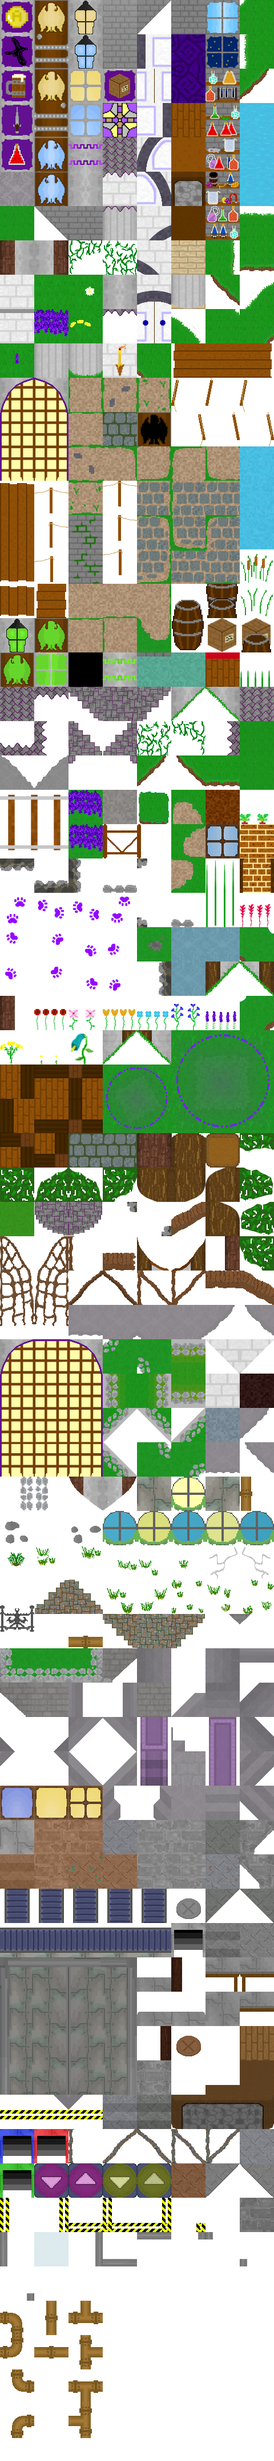
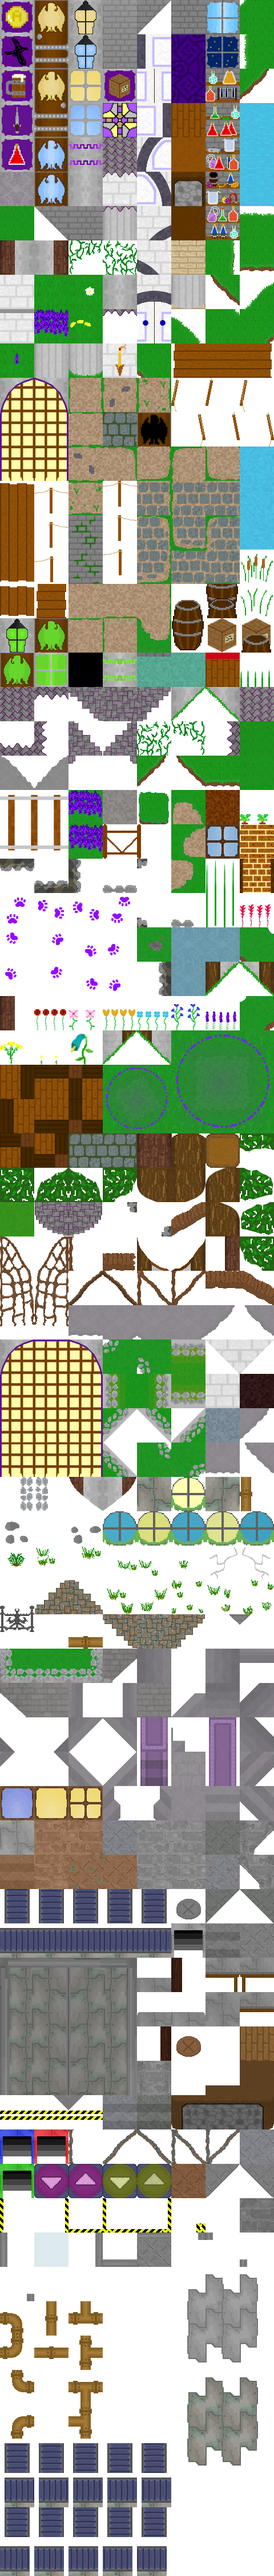
Tinkerer base changes
Conveyor belt edges, new plated walls + other changes that make the base look more polished!

diff --git a/gamedata/areadata.js b/gamedata/areadata.js
@@ -13969,40 +13969,67 @@ chloroville: {
 			tiles: [449, 450, 451, 452, 453],
 			animateTime: 180,
 		},
+
+{
+		tiles: [569, 570, 571, 572, 573],
+		animateTime: 180,
+		},
+
+{
+		tiles: [577, 578, 579, 580, 581],
+		animateTime: 180,
+		},
+
+{
+		tiles: [585, 586, 587, 588, 589],
+		animateTime: 180,
+		},
+
+		{
+				tiles: [593, 594, 595, 596, 597],
+				animateTime: 180,
+				},
+
+
+
 		],
 			layers: [
-				[351,351,425,425,425,437,438,437,438,425,425,425,351,351,438,436,510,431,431,431,431,431,431,431,431,431,431,431,431,431,431,510,436,429,430,425,425,351,351,351,430,429,430,429,430,351,425,425,
-351,425,425,429,430,429,430,429,430,429,425,425,351,429,436,436,510,431,437,438,437,425,425,438,437,438,437,438,437,438,431,510,436,436,438,437,425,425,438,437,438,437,438,437,438,437,425,425,
-436,436,436,436,436,436,436,436,436,436,436,436,436,436,436,436,510,431,429,430,429,430,429,430,429,430,429,430,429,430,431,510,436,436,436,436,436,436,436,436,436,436,436,436,436,436,436,436,
-510,510,510,510,510,510,510,510,510,510,510,510,510,510,510,510,510,431,437,438,437,438,437,437,437,437,437,438,437,438,431,510,510,510,510,510,510,510,510,510,510,510,510,510,510,510,510,510,
-431,431,431,431,431,431,485,430,430,430,430,485,431,431,431,431,431,485,425,425,429,430,457,458,459,460,429,425,425,430,485,431,431,431,431,431,485,430,430,430,430,485,431,431,431,431,431,431,
-429,425,425,425,351,351,485,431,431,431,431,485,425,351,351,351,351,485,425,351,351,438,465,466,467,468,437,425,425,425,485,425,425,425,351,351,485,431,431,431,431,485,429,430,429,430,429,430,
-437,438,437,425,351,351,485,493,493,493,493,485,425,425,425,351,351,485,351,351,351,430,473,474,475,476,429,425,351,351,485,425,425,351,351,438,485,493,493,493,493,485,437,438,351,351,425,438,
-429,430,429,425,351,430,485,493,493,493,493,485,429,425,425,425,429,485,351,351,437,438,481,482,483,484,437,438,437,438,485,430,429,430,429,430,485,493,493,493,493,485,425,351,351,425,425,430,
-351,438,437,438,437,438,485,493,493,493,493,485,437,438,437,438,437,485,456,456,456,456,436,436,436,436,456,456,456,456,485,438,437,438,437,438,485,493,493,493,493,485,351,351,425,425,425,438,
-351,430,429,430,429,430,485,493,493,493,493,485,429,430,429,430,429,485,456,456,456,456,436,436,436,436,456,456,456,456,485,430,429,430,429,430,485,493,493,493,493,485,351,351,351,430,429,430,
-351,438,437,438,437,351,485,493,493,493,493,485,437,438,437,351,351,485,456,456,456,485,433,433,433,433,485,456,456,456,485,438,437,351,425,425,485,493,493,493,493,485,351,425,437,438,437,438,
-429,429,429,430,429,351,485,456,456,456,456,485,429,430,429,351,351,485,425,425,429,436,436,436,436,436,436,429,425,425,485,351,351,351,351,351,485,456,456,456,456,485,425,425,429,430,429,430,
-437,441,437,438,437,351,504,504,504,504,504,504,437,438,437,438,429,485,436,436,435,435,436,436,436,435,435,436,436,436,485,351,425,425,351,351,504,504,504,504,504,504,437,438,437,438,441,438,
-431,428,428,428,428,428,428,428,428,428,428,428,428,428,428,428,428,436,436,436,435,435,435,435,435,435,436,435,435,436,436,0,0,0,0,504,504,504,504,504,504,504,504,504,504,504,428,431,
-431,428,428,428,428,428,428,428,428,428,428,428,428,428,428,428,428,436,436,435,435,436,436,436,436,436,436,436,435,436,436,0,0,0,0,504,428,428,428,428,428,428,428,428,428,504,428,431,
-431,428,428,428,428,428,428,428,428,428,439,428,428,428,428,428,428,436,436,435,435,436,436,436,436,436,436,436,436,436,436,0,0,0,0,504,428,428,428,428,428,428,428,428,428,504,428,431,
-431,428,428,428,428,428,428,428,428,428,428,428,428,428,428,428,428,436,436,436,435,435,436,435,435,436,436,436,435,436,436,0,0,0,0,504,428,428,428,428,428,428,428,428,428,504,428,431,
-431,428,428,439,428,428,428,428,428,428,428,428,428,428,428,428,428,436,436,436,436,436,436,436,435,435,435,435,435,436,436,0,0,0,0,504,428,428,428,428,428,428,428,428,428,504,428,431,
-431,428,428,428,428,428,439,428,439,428,428,428,428,428,428,428,428,436,436,436,436,436,436,436,436,436,436,436,436,436,436,0,0,0,0,504,504,504,504,504,504,504,504,504,504,504,428,431,
-431,492,492,492,492,492,492,492,492,441,492,492,492,492,492,492,441,426,426,426,426,426,426,426,426,426,426,426,426,426,426,441,492,492,492,492,492,492,520,520,520,520,520,520,520,520,520,431,
-431,510,436,436,436,435,436,436,436,510,455,455,455,455,455,455,510,434,434,434,434,434,434,434,434,434,434,434,434,434,434,467,455,455,455,455,455,455,456,456,456,456,456,456,456,456,466,431,
-431,510,436,436,436,436,436,436,436,510,493,493,493,493,493,493,510,456,456,456,456,456,456,456,456,456,456,456,456,456,456,467,493,493,493,493,493,493,456,456,456,456,456,456,456,456,466,431,
-431,510,435,436,436,436,436,436,436,510,431,431,431,431,431,431,510,456,456,456,456,456,456,456,456,456,456,456,456,456,456,467,431,431,431,431,431,431,456,456,456,456,456,456,456,456,466,431,
-431,510,436,436,436,436,436,436,436,510,431,431,431,431,431,431,510,456,456,456,456,456,456,456,456,456,456,456,456,456,456,467,431,431,431,431,431,431,456,456,456,456,456,456,456,456,466,431,
-431,510,510,510,510,510,510,510,510,431,431,471,431,431,471,431,510,456,456,456,456,456,456,456,456,456,456,456,456,456,456,467,431,471,431,431,471,431,525,525,525,525,525,525,525,525,525,431,
-431,485,425,425,430,429,430,429,430,510,431,431,431,431,431,431,510,456,456,456,456,456,456,456,456,456,456,456,456,456,456,467,431,431,431,431,431,431,467,429,425,425,351,429,430,429,485,431,
-493,485,425,425,351,437,438,437,351,510,431,431,431,431,431,431,510,456,456,456,456,456,456,456,456,456,456,456,456,456,456,467,431,431,431,431,431,431,467,437,438,425,425,351,438,437,485,493,
-436,485,430,351,430,429,430,351,351,510,510,510,510,510,510,510,431,456,456,456,456,456,456,456,456,456,456,456,456,456,456,467,467,467,467,467,467,467,467,429,430,351,425,351,430,429,485,436,
-436,436,438,437,438,437,425,351,351,485,425,351,351,429,430,429,467,456,456,456,456,456,456,456,456,456,456,456,456,456,456,467,425,351,351,429,430,429,485,437,438,437,438,437,438,437,436,436,
-436,436,436,436,436,436,436,436,436,485,425,425,351,437,438,437,467,467,467,467,467,467,467,467,467,467,467,467,467,467,467,467,425,425,351,437,438,437,485,436,436,436,436,436,436,436,436,436,
-436,436,436,436,436,436,436,436,436,485,351,351,351,429,430,429,430,429,430,351,425,425,430,429,430,429,430,351,425,351,430,429,430,351,351,429,430,429,485,436,436,436,436,436,436,436,436,436,
-436,436,436,436,436,436,436,436,436,436,438,437,438,437,438,437,438,437,351,425,425,425,425,437,438,437,351,425,425,425,351,437,438,437,438,437,438,437,436,436,436,436,436,436,436,436,436,436
+				[429,429,429,429,429,429,429,429,429,429,429,429,429,429,485,436,510,431,431,431,431,431,431,431,431,431,431,431,431,431,431,510,436,485,430,429,429,429,429,429,429,429,429,429,429,429,429,429,
+429,429,429,429,429,429,429,429,429,429,429,429,429,429,436,436,510,431,437,438,437,438,438,438,437,438,437,438,437,438,431,510,436,436,429,429,429,429,429,429,429,429,429,429,429,429,429,429,
+436,436,436,436,510,431,431,436,436,436,436,431,431,510,436,436,510,431,429,430,429,430,429,430,429,430,429,430,429,430,431,510,436,436,510,431,431,436,436,436,436,431,431,510,436,436,436,436,
+510,510,510,510,510,431,431,436,436,436,436,431,431,510,510,510,510,431,437,438,437,438,437,437,437,437,437,438,437,438,431,510,510,510,510,431,431,436,436,436,436,431,431,510,510,510,510,510,
+431,431,431,431,431,431,485,430,430,430,430,485,431,431,431,431,431,485,438,438,429,430,457,458,459,460,429,438,438,430,485,431,431,431,431,431,485,430,430,430,430,485,431,431,431,431,431,431,
+429,438,438,438,438,438,485,431,431,431,431,485,438,438,438,438,438,485,438,438,438,438,465,466,467,468,437,438,438,438,485,438,438,438,438,438,485,431,431,431,431,485,429,430,429,438,429,430,
+437,438,437,438,438,438,485,493,493,493,493,485,438,438,438,438,438,485,438,438,438,430,473,474,475,476,429,438,438,438,485,438,438,438,438,438,485,493,493,493,493,485,437,438,438,438,438,438,
+429,430,429,438,438,430,485,493,493,493,493,485,429,438,438,438,429,485,438,438,437,438,481,482,483,484,437,438,437,438,485,430,429,430,429,430,485,493,493,493,493,485,438,438,438,438,438,430,
+438,438,437,438,437,438,485,493,493,493,493,485,437,438,437,438,437,485,456,456,456,456,436,436,436,436,456,456,456,456,485,438,437,438,437,438,485,493,493,493,493,485,438,438,438,438,438,438,
+438,430,429,430,429,430,485,493,493,493,493,485,429,430,429,430,429,485,456,456,456,456,436,436,436,436,456,456,456,456,485,430,429,430,429,430,485,493,493,493,493,485,438,438,438,430,429,430,
+438,438,437,438,437,438,485,493,493,493,493,485,437,438,438,438,438,485,456,456,456,485,433,433,433,433,485,456,456,456,485,438,437,438,438,438,485,493,493,493,493,485,438,438,437,438,437,438,
+429,429,429,430,429,438,485,456,456,456,456,485,429,430,438,438,438,485,438,438,429,436,436,436,436,436,436,429,429,429,485,438,438,438,438,438,485,456,456,456,456,485,438,438,429,430,429,430,
+437,441,437,438,437,438,504,504,504,504,504,504,437,438,437,438,429,485,436,436,435,435,436,436,436,435,435,436,436,436,485,438,438,438,438,438,504,504,504,504,504,504,437,438,437,438,441,438,
+431,428,428,428,428,428,428,428,428,428,428,428,428,428,428,428,428,436,436,436,435,435,435,435,435,435,436,435,435,436,436,0,0,0,428,504,504,504,504,504,504,504,504,504,504,504,456,431,
+431,428,428,428,428,428,428,428,428,428,428,428,428,428,428,428,428,436,436,435,435,436,436,436,436,436,436,436,435,436,436,0,428,428,428,504,428,428,428,428,428,428,428,428,428,504,456,431,
+431,428,428,428,428,428,428,428,428,428,439,428,428,428,428,428,428,436,436,435,435,436,436,436,436,436,436,436,436,436,436,0,428,428,428,504,428,428,428,428,428,428,428,428,428,504,456,431,
+431,428,428,428,428,428,428,428,428,428,428,428,428,428,428,428,428,436,436,436,435,435,436,435,435,436,436,436,435,436,436,0,428,428,428,504,428,428,428,428,428,428,428,428,428,504,456,431,
+431,428,428,439,428,428,428,428,428,428,428,428,428,428,428,428,428,436,436,436,436,436,436,436,435,435,435,435,435,436,436,0,428,428,428,504,428,428,428,428,428,428,428,428,428,504,456,431,
+431,428,428,428,428,428,439,428,439,428,428,428,428,428,428,428,428,436,436,436,436,436,436,436,436,436,436,436,436,436,436,0,0,0,0,504,504,504,504,504,504,504,504,504,504,504,456,431,
+431,492,492,492,492,492,492,492,492,441,492,492,492,492,492,492,441,426,426,426,426,426,426,426,426,426,426,426,426,426,426,441,492,492,492,492,492,492,520,520,520,520,520,520,520,520,456,431,
+431,510,436,436,436,435,436,436,436,510,455,455,455,455,455,455,510,434,434,434,434,434,434,434,434,434,434,434,434,434,434,431,455,455,455,455,455,455,431,431,431,431,431,431,431,431,456,431,
+431,510,436,436,436,436,436,436,436,510,493,493,493,493,493,493,510,456,456,456,456,456,456,456,456,456,456,456,456,456,456,431,493,493,493,493,493,493,431,431,431,431,431,431,431,431,456,431,
+431,510,435,436,436,436,436,436,436,510,431,431,431,431,431,431,510,456,456,456,456,456,456,456,456,456,456,456,456,456,456,431,431,431,431,431,431,431,431,431,431,431,431,431,431,431,456,431,
+431,510,436,436,436,436,436,436,436,510,431,431,431,431,431,431,510,456,456,456,456,456,456,456,456,456,456,456,456,456,456,431,431,431,431,431,431,431,431,431,431,431,431,431,431,431,456,431,
+431,510,510,510,510,510,510,510,510,431,431,471,431,431,471,431,510,456,456,456,456,456,456,456,456,456,456,456,456,456,456,431,431,471,431,431,471,431,525,525,525,525,525,525,525,525,525,431,
+431,485,429,429,429,429,430,429,430,510,431,431,431,431,431,431,510,456,456,456,456,456,456,456,456,456,456,456,456,456,456,431,431,431,431,431,431,431,456,429,429,429,429,429,430,429,485,431,
+493,485,429,429,429,437,429,429,429,510,431,431,431,431,431,431,510,456,456,456,456,456,456,456,456,456,456,456,456,456,456,431,431,431,431,431,431,431,456,429,429,429,429,429,438,437,485,493,
+436,485,429,429,429,429,429,429,429,510,510,510,510,510,510,510,431,456,456,456,456,456,456,456,456,456,456,456,456,456,456,431,456,456,456,456,456,456,456,429,429,429,429,429,430,429,485,436,
+436,436,438,437,438,437,429,429,429,485,429,429,429,429,430,429,431,456,456,456,456,456,456,456,456,456,456,456,456,456,456,431,429,429,429,429,430,429,485,437,438,437,438,437,438,437,436,436,
+436,436,436,436,436,436,436,436,436,485,429,429,429,437,438,437,431,431,431,431,431,431,431,431,431,431,431,431,431,431,431,431,429,429,429,437,438,437,485,436,436,436,436,436,436,436,436,436,
+436,436,436,436,436,436,436,436,436,485,429,429,429,429,430,429,430,429,429,429,429,429,429,429,429,429,429,429,429,429,429,429,429,429,429,429,430,429,485,436,436,436,436,436,436,436,436,436,
+436,436,436,436,436,436,436,436,436,436,438,437,438,437,438,437,438,429,429,429,429,429,429,429,429,429,429,429,429,429,429,437,438,437,438,437,438,437,436,436,436,436,436,436,436,436,436,436
+
+
+
+
 
 
 
@@ -14012,75 +14039,83 @@ chloroville: {
 
 ],
 
-	[0,0,0,0,0,0,0,0,0,0,0,0,0,0,0,0,442,446,0,0,0,0,0,0,0,0,0,0,0,0,446,445,0,0,0,0,0,0,0,0,0,0,0,0,0,0,0,0,
-0,0,0,0,0,0,0,0,0,0,0,0,0,0,432,0,442,0,447,0,0,0,0,0,352,0,0,0,352,448,0,445,0,440,0,0,0,0,0,0,0,0,0,0,0,0,0,0,
-0,0,0,0,0,0,0,0,0,0,0,0,0,0,0,0,442,0,0,0,379,379,379,379,352,0,0,379,352,0,0,445,0,0,0,0,0,0,0,0,0,0,0,0,0,0,0,0,
-453,453,453,453,453,453,453,453,453,453,453,453,453,453,453,453,449,0,0,379,352,0,0,0,0,0,0,352,379,379,0,453,453,453,453,453,453,453,453,453,453,453,453,453,453,453,453,453,
-0,0,0,0,0,0,447,0,0,0,0,448,0,0,0,0,0,447,0,352,352,0,0,0,0,0,0,352,352,0,448,0,0,0,0,0,447,0,0,0,0,448,0,0,0,0,0,0,
-379,379,379,379,352,0,0,409,0,0,410,0,0,0,0,0,379,379,0,352,352,0,0,0,0,0,0,352,352,0,0,0,0,0,0,0,0,409,0,0,410,0,379,379,352,0,379,379,
-0,0,0,352,0,0,352,0,0,0,0,0,379,379,379,379,352,0,0,352,352,0,0,0,0,0,0,352,352,0,0,0,379,379,379,379,352,0,0,0,0,0,0,0,0,0,352,0,
-379,379,379,352,0,0,352,0,0,0,0,0,0,0,0,0,352,0,0,352,352,0,0,0,0,0,0,352,352,0,0,0,352,0,0,0,352,0,0,0,0,0,379,379,379,379,352,0,
-0,379,379,379,379,379,352,0,0,0,0,0,379,379,379,379,352,0,0,0,0,0,0,0,0,0,0,0,0,0,379,379,352,0,0,0,352,0,0,0,0,0,0,0,0,0,0,0,
-0,352,0,352,0,0,0,0,0,0,0,0,352,0,0,0,352,0,0,446,0,0,0,0,0,0,0,0,478,0,0,0,352,0,0,379,0,0,0,0,0,0,0,0,0,0,0,0,
-0,352,0,352,0,0,0,0,0,0,0,0,352,0,0,379,352,0,0,0,0,511,0,0,0,0,512,0,0,0,0,0,352,0,0,352,0,0,0,0,0,0,0,379,379,379,379,379,
-0,352,0,352,0,0,489,489,489,489,489,489,352,0,0,352,0,0,0,0,0,432,0,0,0,0,440,0,0,0,0,0,352,0,0,352,489,489,489,489,489,489,0,352,0,0,0,0,
-0,454,0,352,0,0,432,0,0,0,0,440,352,0,0,352,0,0,0,0,0,0,0,0,367,367,0,0,0,0,0,0,352,0,0,352,432,0,0,0,0,440,0,352,0,0,454,0,
-0,441,0,0,0,446,0,0,0,0,0,0,0,478,0,0,0,432,0,478,367,0,367,0,0,367,0,367,446,0,440,0,0,0,0,0,0,0,0,0,0,0,0,0,0,0,441,0,
-0,441,0,367,0,0,0,0,367,0,0,0,0,0,0,0,0,513,367,0,0,0,0,0,0,0,367,0,367,0,514,0,0,0,0,0,0,0,0,0,0,0,0,0,0,0,441,0,
+	[566,567,568,0,0,566,567,568,0,0,542,543,544,0,0,0,442,446,0,0,0,0,0,0,0,0,0,0,0,0,446,445,0,0,0,0,542,543,544,0,566,567,568,0,0,542,543,544,
+574,575,576,0,441,574,575,576,0,0,550,551,552,441,432,0,442,0,447,538,0,558,559,560,0,0,534,535,536,448,0,445,0,440,441,574,575,576,0,0,550,551,552,441,0,550,551,552,
+0,0,0,0,441,0,0,513,0,0,514,0,0,441,0,0,442,0,0,0,0,566,567,568,0,0,542,543,544,0,0,445,0,0,441,0,0,513,0,0,514,0,0,441,0,0,0,0,
+449,449,449,449,593,0,0,513,0,0,514,0,0,577,449,449,593,0,0,0,0,574,575,576,0,0,550,551,552,0,0,577,449,449,593,0,0,513,0,0,514,0,0,577,449,449,449,449,
+0,0,0,0,0,0,447,0,0,0,0,448,0,0,0,0,0,447,0,0,0,0,0,0,0,0,0,558,559,560,448,0,0,0,0,0,447,0,0,0,0,448,0,0,0,0,0,0,
+534,535,536,0,0,0,0,409,0,0,410,0,0,0,0,0,0,0,534,535,536,0,0,0,0,0,0,566,567,568,0,0,0,0,0,0,0,409,0,0,410,0,0,0,0,0,0,0,
+542,543,544,558,559,560,0,0,0,0,0,0,0,0,558,559,560,0,542,543,544,0,0,0,0,0,0,574,575,576,0,0,0,558,559,560,0,0,0,0,0,0,0,534,535,536,0,0,
+550,551,552,566,567,568,0,0,0,0,0,0,0,0,566,567,568,0,550,551,552,0,0,0,0,0,0,0,0,0,0,0,0,566,567,568,0,0,0,0,0,0,0,542,543,544,0,0,
+0,0,0,574,575,576,0,0,0,0,0,0,0,0,574,575,576,0,0,0,0,514,0,0,0,0,513,0,0,0,0,0,0,574,575,576,0,0,0,0,0,0,0,550,551,552,0,0,
+558,559,560,0,0,0,0,0,0,0,0,0,0,0,0,0,0,0,0,478,0,514,0,0,0,0,513,0,478,0,0,0,0,0,0,0,0,0,0,0,0,0,0,0,0,558,559,560,
+566,567,568,534,535,536,0,0,0,0,0,0,558,559,560,0,0,0,0,0,0,511,0,0,0,0,512,0,0,0,0,534,535,536,0,0,0,0,0,0,0,0,0,0,0,566,567,568,
+574,575,576,542,543,544,489,489,489,489,489,489,566,567,568,0,0,0,558,559,560,432,0,0,0,0,440,550,551,552,0,542,543,544,0,0,489,489,489,489,489,489,0,0,0,574,575,576,
+0,454,0,550,551,552,432,0,0,0,0,440,574,575,576,0,0,0,0,0,0,0,0,0,0,367,0,0,0,0,0,550,551,552,0,0,432,0,0,0,0,440,538,0,0,538,454,0,
+0,441,0,0,0,0,0,0,0,0,0,0,0,0,0,0,0,432,0,446,0,0,0,0,0,0,0,367,478,0,440,0,0,0,0,0,0,0,0,0,0,0,0,0,0,0,441,0,
+0,441,0,446,0,0,0,0,367,0,0,0,0,0,478,0,0,513,367,0,0,0,0,0,0,0,367,0,367,0,514,0,0,446,0,0,0,0,0,0,0,0,0,0,478,0,441,0,
 0,441,0,0,0,0,0,0,0,0,0,0,0,0,0,0,0,513,0,0,0,0,0,0,0,0,0,0,0,0,514,0,0,0,0,0,0,0,0,0,0,0,0,0,0,0,441,0,
 0,441,0,0,0,0,0,0,0,0,0,0,0,0,0,0,0,513,0,0,367,0,0,0,0,0,0,367,367,0,514,0,0,0,0,0,0,0,0,0,0,0,0,0,0,0,441,0,
-0,441,0,0,0,0,0,0,0,0,0,0,0,368,367,0,0,513,0,446,0,0,0,367,0,0,0,0,478,0,514,0,0,0,0,0,0,0,0,0,0,0,0,0,0,0,441,0,
-0,441,0,478,0,0,0,0,0,0,0,0,0,0,0,446,0,516,515,515,515,515,515,515,515,515,515,515,515,515,517,0,0,0,0,0,0,0,0,0,0,0,0,0,0,527,441,0,
-0,441,0,368,0,0,0,0,0,497,0,0,0,0,0,0,498,0,0,0,352,0,352,0,379,379,379,352,0,352,0,505,0,0,0,0,0,0,0,0,0,0,0,0,0,0,528,0,
-0,441,513,0,469,461,470,0,514,441,0,0,0,0,0,0,442,379,379,379,352,0,352,0,352,0,0,0,0,352,0,441,0,0,0,0,0,0,537,0,0,0,561,546,537,538,521,0,
+0,441,0,478,0,0,0,0,0,0,0,0,0,368,446,0,0,513,0,478,0,0,0,0,0,0,0,0,446,0,514,0,0,478,0,0,0,0,0,0,0,0,0,0,446,0,441,0,
+0,441,0,0,0,0,0,0,0,0,0,0,0,0,0,0,0,516,515,515,515,515,515,515,515,515,515,515,515,515,517,0,0,0,0,0,0,0,0,0,0,0,0,0,0,527,441,0,
+0,441,0,368,0,0,0,0,0,497,0,0,0,0,0,0,498,538,0,0,0,561,546,546,546,546,537,0,0,561,546,505,0,0,0,0,0,0,0,0,0,0,0,0,0,0,528,0,
+0,441,513,0,469,461,470,0,514,441,0,0,0,0,0,0,442,553,555,546,546,539,537,0,0,0,553,555,537,538,0,441,0,0,0,0,0,0,537,0,0,0,561,546,537,538,521,0,
 0,441,513,0,471,471,471,0,514,441,0,0,0,0,0,0,442,0,0,0,0,0,0,0,0,0,0,0,0,0,0,441,0,0,0,0,0,0,553,555,546,546,539,537,547,545,521,0,
-0,441,513,0,464,472,463,0,514,441,513,0,367,0,0,514,442,0,478,0,0,0,0,0,0,0,0,0,0,446,0,441,513,0,0,0,0,523,0,538,561,555,546,563,538,0,521,0,
+0,441,513,0,464,472,463,0,514,441,513,0,367,0,0,514,442,0,478,0,0,0,0,0,0,0,0,0,0,478,0,441,513,0,0,0,0,523,0,538,561,555,546,563,538,0,521,0,
 0,441,516,515,515,515,515,515,517,441,513,469,0,0,470,514,442,0,0,0,0,0,0,0,0,0,0,0,0,0,0,441,513,469,0,0,470,523,0,553,539,545,0,553,545,0,521,0,
-0,441,449,449,449,449,449,449,449,506,513,469,461,461,470,514,442,0,0,0,0,0,0,0,0,0,0,0,0,0,0,441,513,469,461,461,470,514,449,449,449,449,449,449,449,449,449,0,
-0,379,352,379,379,379,379,352,379,441,513,464,472,472,463,514,442,0,0,0,0,0,0,0,0,0,0,0,0,0,0,441,513,464,472,472,463,514,441,352,0,0,379,352,0,379,352,0,
-0,379,352,352,0,0,0,352,352,441,516,515,515,515,515,517,441,0,0,0,0,0,0,0,0,0,0,0,0,0,0,441,516,515,515,515,515,517,441,352,379,379,352,352,0,352,0,0,
-0,0,352,352,0,0,0,352,352,441,449,449,449,449,449,449,509,0,0,0,0,0,0,0,0,0,0,0,0,0,0,449,449,449,449,449,449,449,449,352,352,0,0,352,0,352,0,0,
-0,440,352,352,0,0,0,352,352,0,0,0,0,379,379,379,441,0,0,0,0,0,0,0,0,0,0,0,0,0,0,441,379,379,379,352,379,352,0,352,352,367,0,352,0,352,432,0,
-0,367,0,0,0,0,0,367,0,0,379,379,379,352,352,0,449,449,449,449,449,449,449,449,449,449,449,449,449,449,449,449,0,0,0,352,352,352,0,0,0,0,0,0,0,0,0,0,
-0,0,0,0,0,0,0,0,0,0,352,0,0,352,352,0,0,0,0,0,0,0,0,0,0,0,0,0,0,0,0,0,0,0,0,352,352,352,0,0,0,0,0,0,0,0,0,0,
-0,0,0,0,0,0,0,0,0,440,352,0,0,352,352,0,0,0,0,0,0,0,0,0,0,0,0,0,0,0,0,0,0,0,0,352,352,352,432,0,0,0,0,0,0,0,367,0
+0,577,449,449,449,449,449,449,449,506,513,469,461,461,470,514,442,0,0,0,0,0,0,0,0,0,0,0,0,0,0,441,513,469,461,461,470,514,577,449,449,449,449,449,449,449,593,0,
+0,0,0,534,535,536,0,0,0,441,513,464,472,472,463,514,442,0,0,0,0,0,0,0,0,0,0,0,0,0,0,441,513,464,472,472,463,514,441,0,0,0,0,534,535,536,0,0,
+0,0,0,542,543,544,558,559,560,441,516,515,515,515,515,517,441,0,0,0,0,0,0,0,0,0,0,0,0,0,0,441,516,515,515,515,515,517,441,534,535,536,0,542,543,544,0,0,
+0,0,0,550,551,552,566,567,568,577,449,449,449,449,449,449,509,0,478,0,0,0,0,0,0,0,0,0,0,478,0,577,449,449,449,449,449,449,593,542,543,544,0,550,551,552,0,0,
+0,440,0,0,0,0,574,575,576,0,558,559,560,0,0,0,441,0,0,0,0,0,0,0,0,0,0,0,0,0,0,441,534,535,536,0,0,0,0,550,551,552,0,0,0,0,432,0,
+0,367,0,0,0,0,0,367,0,0,566,567,568,0,0,0,577,449,449,449,449,449,449,449,449,449,449,449,449,449,449,593,542,543,544,534,535,536,0,0,0,0,0,0,0,0,0,0,
+0,0,0,0,0,0,0,0,0,0,574,575,576,558,559,560,0,0,0,558,559,560,0,558,559,558,559,560,0,0,0,0,550,551,552,542,543,544,0,0,0,0,0,0,0,0,0,0,
+0,0,0,0,0,0,0,0,0,440,0,0,0,566,567,568,0,0,0,566,567,568,0,566,567,567,567,568,0,0,0,0,0,0,0,550,551,552,432,0,0,0,0,0,0,0,367,0
+
+
+
+
 
 
 
 ],
 
 [0,0,0,0,0,0,0,0,0,0,0,0,0,0,0,0,0,0,0,0,0,0,0,0,0,0,0,0,0,0,0,0,0,0,0,0,0,0,0,0,0,0,0,0,0,0,0,0,
-0,0,0,0,0,0,0,0,0,0,0,0,0,0,0,0,0,0,0,0,0,0,0,0,0,0,0,0,0,0,0,0,0,0,0,0,0,0,0,0,0,0,0,0,0,0,0,0,
-0,0,0,0,0,0,0,0,0,0,0,0,0,0,0,0,0,0,0,0,0,0,0,0,0,0,0,0,0,0,0,0,0,0,0,0,0,0,0,0,0,0,0,0,0,0,0,0,
-0,0,0,0,0,0,0,0,0,0,0,0,0,0,0,0,441,0,0,0,0,0,0,0,0,0,0,0,0,0,0,445,0,0,0,0,0,0,0,0,0,0,0,0,0,0,0,0,
-0,0,0,0,0,0,0,0,0,0,0,0,0,0,0,0,0,0,0,0,0,0,0,0,0,0,0,0,0,0,0,0,0,0,0,0,0,0,0,0,0,0,0,0,0,0,0,0,
-0,0,0,0,0,0,0,0,0,0,0,0,0,0,0,0,0,0,0,0,0,0,0,0,0,0,0,0,0,0,0,0,0,0,0,0,0,0,0,0,0,0,0,0,0,0,0,0,
-0,0,0,0,0,0,0,0,0,0,0,0,0,0,0,0,0,0,0,0,0,0,0,0,0,0,0,0,0,0,0,0,0,0,0,0,0,0,0,0,0,0,0,0,0,0,0,0,
-0,0,0,0,0,0,0,0,0,0,0,0,0,0,0,0,0,0,0,0,0,0,0,0,0,0,0,0,0,0,0,0,0,0,0,0,0,0,0,0,0,0,0,0,0,0,0,0,
-0,0,0,0,0,0,0,0,0,0,0,0,0,0,0,0,0,0,0,0,0,0,0,0,0,0,0,0,0,0,0,0,0,0,0,0,0,0,0,0,0,0,0,0,0,0,0,0,
-0,0,0,0,0,0,0,0,0,0,0,0,0,0,0,0,0,0,0,0,0,0,0,0,0,0,0,0,0,0,0,0,0,0,0,0,0,0,0,0,0,0,0,0,0,0,0,0,
-0,0,0,0,0,0,0,0,0,0,0,0,0,0,0,0,0,0,0,0,0,0,0,0,0,0,0,0,0,0,0,0,0,0,0,0,0,0,0,0,0,0,0,0,0,0,0,0,
-0,0,0,0,0,0,0,0,0,0,0,0,0,0,0,0,0,0,0,0,0,0,0,0,0,0,0,0,0,0,0,0,0,0,0,0,0,0,0,0,0,0,0,0,0,0,0,0,
-0,0,0,0,0,0,0,0,0,0,0,0,0,0,0,0,0,0,0,0,0,0,0,0,0,0,0,0,0,0,0,0,0,0,0,0,0,0,0,0,0,0,0,0,0,0,0,0,
-0,0,0,0,0,0,0,0,0,0,0,0,0,0,0,0,0,0,0,0,0,0,0,0,0,0,0,0,0,0,0,428,428,428,428,0,0,0,0,0,0,0,0,0,0,0,0,0,
-0,0,0,0,0,0,0,0,0,0,0,0,0,0,0,0,0,0,0,0,0,0,0,0,0,0,0,0,0,0,0,428,428,428,428,0,0,0,0,0,0,0,0,0,0,0,0,0,
-0,0,0,0,0,0,0,0,0,0,0,0,0,0,0,0,0,0,0,0,0,0,0,0,0,0,0,0,0,0,0,428,428,428,428,0,0,0,0,0,0,0,0,0,0,0,0,0,
-0,0,0,0,0,0,0,0,0,0,0,0,0,0,0,0,0,0,0,0,0,0,0,0,0,0,0,0,0,0,0,428,428,428,428,0,0,0,0,0,0,0,0,0,0,0,0,0,
-0,0,0,0,0,0,0,0,0,0,0,0,0,0,0,0,0,0,0,0,0,0,0,0,0,0,0,0,0,0,0,428,428,428,428,0,0,0,0,0,0,0,0,0,0,0,0,0,
+0,0,0,0,454,0,0,0,0,0,0,0,0,454,0,0,0,0,0,0,0,0,0,0,0,0,0,0,0,0,0,0,0,0,454,0,0,0,0,0,0,0,0,454,0,0,0,0,
+0,0,0,0,0,0,0,0,0,0,0,0,0,0,0,0,0,0,561,539,546,546,546,546,546,546,546,555,537,0,0,0,0,0,0,0,0,0,0,0,0,0,0,0,0,0,0,0,
+0,0,0,0,587,0,0,0,0,0,0,0,0,585,0,0,585,0,538,0,0,0,0,0,0,0,0,538,538,0,0,585,0,0,587,0,0,0,0,0,0,0,0,585,0,0,0,0,
+0,0,0,0,0,0,0,0,0,0,0,0,0,0,0,0,0,0,547,537,0,0,0,0,0,0,0,538,538,0,0,0,0,0,0,0,0,0,0,0,0,0,0,0,0,0,0,0,
+0,538,0,0,547,537,0,0,0,0,0,0,547,546,546,546,546,0,538,538,0,0,0,0,0,0,0,538,538,0,0,538,538,0,0,0,0,0,0,0,0,0,547,537,0,0,0,0,
+0,538,0,0,538,538,0,0,0,0,0,0,538,0,0,0,0,0,538,547,537,0,0,0,0,0,0,538,538,0,0,538,538,0,0,0,0,0,0,0,0,0,538,547,546,546,546,546,
+0,547,546,546,539,545,0,0,0,0,0,0,538,0,0,0,0,0,538,538,538,0,0,0,0,0,0,553,563,0,0,538,538,0,0,0,0,0,0,0,0,0,538,553,555,546,546,546,
+0,553,546,537,0,0,0,0,0,0,0,0,547,537,0,0,0,0,0,0,0,0,0,0,0,0,0,0,0,0,0,553,539,546,537,0,0,0,0,0,0,0,538,0,538,0,0,0,
+0,0,0,538,0,0,0,0,0,0,0,0,538,538,0,0,0,0,0,0,0,0,0,0,0,0,0,0,0,0,0,0,0,0,538,0,0,0,0,0,0,0,538,0,538,0,0,0,
+0,0,0,538,0,0,0,0,0,0,0,0,538,553,546,546,537,0,0,0,0,0,0,0,0,0,0,0,0,0,0,0,0,561,563,0,0,0,0,0,0,0,538,0,538,0,0,0,
+0,0,0,538,0,0,0,0,0,0,0,0,553,537,0,0,538,0,0,0,0,0,0,0,0,0,0,0,0,0,0,0,0,538,538,0,0,0,0,0,0,0,538,0,553,537,0,0,
+0,0,0,538,0,0,0,0,0,0,0,0,0,538,0,0,538,0,0,0,0,0,0,0,0,0,0,0,0,0,0,0,561,563,538,0,0,0,0,0,0,0,0,0,0,0,0,0,
+0,0,0,0,0,0,0,0,0,0,0,0,0,0,0,0,0,0,0,0,0,0,0,0,0,0,0,0,0,0,0,428,428,428,0,0,0,0,0,0,0,0,0,0,0,0,0,0,
+0,0,0,0,0,0,0,0,0,0,0,0,0,0,0,0,0,0,0,0,0,0,0,0,0,0,0,0,0,0,0,428,0,0,0,0,0,0,0,0,0,0,0,0,0,0,0,0,
+0,0,0,0,0,0,0,0,0,0,0,0,0,0,0,0,0,0,0,0,0,0,0,0,0,0,0,0,0,0,0,428,0,0,0,0,0,0,0,0,0,0,0,0,0,0,0,0,
+0,0,0,0,0,0,0,0,0,0,0,0,0,0,0,0,0,0,0,0,0,0,0,0,0,0,0,0,0,0,0,428,0,0,0,0,0,0,0,0,0,0,0,0,0,0,0,0,
+0,0,0,0,0,0,0,0,0,0,0,0,0,0,0,0,0,0,0,0,0,0,0,0,0,0,0,0,0,0,0,428,0,0,0,0,0,0,0,0,0,0,0,0,0,0,0,0,
 0,0,0,0,0,0,0,0,0,0,0,0,0,0,0,0,0,0,0,0,0,0,0,0,0,0,0,0,0,0,0,428,428,428,428,0,0,0,0,0,0,0,0,0,0,0,0,0,
 0,0,0,0,0,0,0,0,0,0,521,0,0,0,0,523,0,0,0,0,0,0,0,0,0,0,0,0,0,0,0,0,521,0,0,0,0,523,524,524,524,524,524,524,524,524,441,0,
 0,0,0,0,0,0,0,0,0,0,521,0,0,0,0,523,0,0,0,0,0,0,0,0,0,0,0,0,0,0,0,0,521,0,0,0,0,523,522,522,522,522,522,522,522,522,441,0,
 0,0,0,0,0,0,0,0,0,0,521,0,0,0,0,523,0,0,0,0,0,0,0,0,0,0,0,0,0,0,0,0,521,0,0,0,0,523,522,522,522,522,522,522,522,522,441,0,
 0,0,0,0,0,0,0,0,0,0,0,0,0,0,0,0,0,0,0,0,0,0,0,0,0,0,0,0,0,0,0,0,0,0,0,0,0,0,522,522,522,522,522,522,522,522,441,0,
 0,0,0,0,0,0,0,0,0,0,0,0,0,0,0,0,0,0,0,0,0,0,0,0,0,0,0,0,0,0,0,0,0,0,0,0,0,0,522,522,522,522,522,522,522,522,441,0,
-0,0,0,0,0,0,0,0,0,0,0,0,0,0,0,0,0,0,0,0,0,0,0,0,0,0,0,0,0,0,0,0,0,0,0,0,0,0,441,0,0,0,0,0,0,0,441,0,
-0,0,0,0,0,0,0,0,0,0,0,0,0,0,0,0,0,0,0,0,0,0,0,0,0,0,0,0,0,0,0,0,0,0,0,0,0,0,0,0,0,0,0,0,0,0,0,0,
-0,0,0,0,0,0,0,0,0,0,0,0,0,0,0,0,0,0,0,0,0,0,0,0,0,0,0,0,0,0,0,0,0,0,0,0,0,0,0,0,0,0,0,0,0,0,0,0,
-0,0,0,0,0,0,0,0,0,0,0,0,0,0,0,0,0,0,0,0,0,0,0,0,0,0,0,0,0,0,0,441,0,0,0,0,0,0,441,0,0,0,0,0,0,0,0,0,
-0,0,0,0,0,0,0,0,0,0,0,0,0,0,0,0,0,0,0,0,0,0,0,0,0,0,0,0,0,0,0,0,0,0,0,0,0,0,0,0,0,0,0,0,0,0,0,0,
-0,0,0,0,0,0,0,0,0,0,0,0,0,0,0,0,441,0,0,0,0,0,0,0,0,0,0,0,0,0,0,441,0,0,0,0,0,0,0,0,0,0,0,0,0,0,0,0,
-0,0,0,0,0,0,0,0,0,0,0,0,0,0,0,0,0,0,0,0,0,0,0,0,0,0,0,0,0,0,0,0,0,0,0,0,0,0,0,0,0,0,0,0,0,0,0,0,
-0,0,0,0,0,0,0,0,0,0,0,0,0,0,0,0,0,0,0,0,0,0,0,0,0,0,0,0,0,0,0,0,0,0,0,0,0,0,0,0,0,0,0,0,0,0,0,0
+0,585,0,0,0,0,0,0,0,0,0,0,0,0,0,0,0,0,0,0,0,0,0,0,0,0,0,0,0,0,0,0,0,0,0,0,0,526,569,0,0,0,0,0,0,0,585,0,
+0,0,0,0,0,538,538,0,0,0,0,0,0,0,0,0,0,0,0,0,0,0,0,0,0,0,0,0,0,0,0,0,0,0,0,0,0,0,0,553,539,555,555,546,546,537,0,0,
+0,0,0,561,546,563,547,537,0,0,0,0,0,0,0,0,0,0,0,0,0,0,0,0,0,0,0,0,0,0,0,0,0,0,0,0,0,0,0,0,0,538,553,546,546,545,0,0,
+0,0,0,538,0,547,539,545,0,585,0,0,0,0,0,0,0,0,0,0,0,0,0,0,0,0,0,0,0,0,0,441,0,0,0,0,0,0,585,0,0,538,0,0,0,0,0,0,
+0,0,0,538,0,538,0,0,0,0,0,538,0,0,538,0,0,0,0,0,0,0,0,0,0,0,0,0,0,0,0,0,0,538,0,0,0,0,0,0,0,553,537,0,0,0,0,0,
+0,0,0,0,0,0,0,0,0,0,561,539,546,546,539,537,585,0,0,0,0,0,0,0,0,0,0,0,0,0,0,585,0,553,555,546,546,537,0,0,0,0,0,0,0,0,0,0,
+0,0,0,0,0,0,0,0,0,0,553,546,537,0,0,538,0,561,545,0,0,547,537,0,0,0,0,0,538,0,538,0,0,0,538,0,0,538,0,0,0,0,0,0,0,0,0,0,
+0,0,0,0,0,0,0,0,0,0,0,0,538,0,0,538,0,538,0,0,0,538,538,0,0,0,0,561,539,537,538,0,0,0,538,0,0,538,0,0,0,0,0,0,0,0,0,0
+
+
+
+
 ]
 
 		],
@@ -14111,8 +14146,8 @@ chloroville: {
 	},
 	things: [
 		{
-			x: [928.9, 575.4, 639.2,  1927.1, 2044, 2309.4, 2221.8, 2560.6, 2686.6, 790, 900.2,  2081.6, 1976.9, 2695.8, 2599, 192.3, 257.4, 484.1, 138.5, 197.6],
-			y: [1980.8, 1973.2, 2043.9, 2045.3, 1991.4,  2018.6, 2013.7, 1842.9, 1842.9, 570.4, 659.7, 541, 631.7, 598.9, 683.4, 1811.6, 1868, 1809.2, 762.8, 695],
+			x: [928.9, 575.4, 639.2,  1927.1, 2044, 2309.4, 2221.8, 2560.6, 2686.6, 810, 900.2,  2081.6, 1976.9, 2725.8, 2629, 192.3, 257.4, 484.1, 138.5, 197.6],
+			y: [1980.8, 1973.2, 2043.9, 2045.3, 1991.4,  2018.6, 2013.7, 1842.9, 1842.9, 740.4, 659.7, 741, 681.7, 698.9, 783.4, 1811.6, 1868, 1809.2, 762.8, 695],
 			image: "gearSteel",
 			name: "gearSteel",
 			crop: {
@@ -14147,8 +14182,8 @@ chloroville: {
 },
 
 		{
-			x: [2058.5, 1993.9, 866.4, 2689, 2629.6, 1964.4, 1952.2, 2269.3, 2619.7, 840.1, 665.8, 388.5, 282.1],
-			y: [618.7, 555.9, 576.8, 689, 538.7, 584.2, 1969.9, 1955.9, 1784.8, 1984.5, 1962.5, 1800.6, 1781.7],
+			x: [1993.9, 806.4,  2629.6, 2104.4, 1952.2, 2269.3, 2619.7, 840.1, 665.8, 388.5, 282.1],
+			y: [755.9, 656.8,  708.7, 684.2, 1969.9, 1955.9, 1784.8, 1984.5, 1962.5, 1800.6, 1781.7],
 			image: "gearRust",
 			name: "gearRust",
 			crop: {
@@ -14166,8 +14201,8 @@ chloroville: {
 		},
 
 		{
-			x: [151.5, 1001.9, 1887.5,  2771.2, 116.5],
-			y: [1552.7, 385.7, 385.7,  385.7, 385.7],
+			x: [181.5, 1001.9, 1887.5,  2771.2, 116.5],
+			y: [1532.7, 385.7, 385.7,  385.7, 385.7],
 			image: "tinkererChimney",
 			name: "tinkererChimney",
 			crop: {
